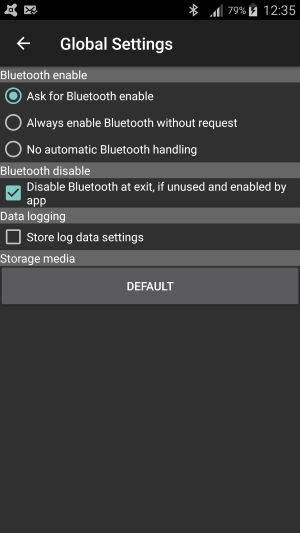
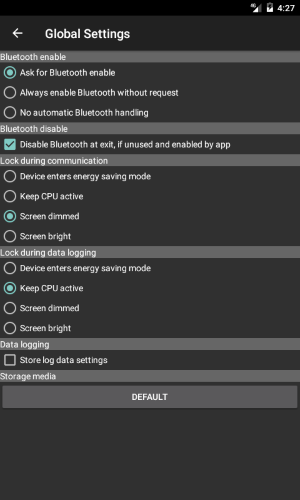
Updated documentation

diff --git a/BmwDeepObd/EdiabasToolActivity.cs b/BmwDeepObd/EdiabasToolActivity.cs
@@ -1545,6 +1545,7 @@ namespace BmwDeepObd
             }
             string jobResults = stringBuilderResults.ToString();
             _runContinuous = continuous;
+            // ReSharper disable once ConvertIfStatementToConditionalTernaryExpression
             if (_dataLogActive)
             {
                 _activityCommon.SetLock(ActivityCommon.LockTypeLogging);

diff --git a/docs/Page_specification.md b/docs/Page_specification.md
@@ -19,7 +19,7 @@ If only some EDIABAS jobs with fixed arguments are required for one display page
 <fragment xmlns="http://www.holeschak.de/BmwDeepObd"
           xmlns:xsi="http://www.w3.org/2001/XMLSchema-instance"
           xsi:schemaLocation="http://www.holeschak.de/BmwDeepObd ../BmwDeepObd.xsd">
-  <page name="tab_ihk">
+  <page name="tab_ihk" fontsize="medium">
     <strings>
       <string name="tab_ihk">Climate</string>
       <string name="label_ihk_in_temp">Indoor temperature [°C](°C):</string>
@@ -90,7 +90,9 @@ If only some EDIABAS jobs with fixed arguments are required for one display page
   </page>
 </fragment>
 ```
-The `page name` property specifies the title of the page and is a reference to the `strings` nodes. With `logfile` a log file name could be specified, that allows to log the display data. If the symbol `{D}` is used inside the log file name, it will be replaced by the current date and time.  
+The `page name` property specifies the title of the page and is a reference to the `strings` nodes.  
+The attribute `fontsize` allows to specify the font size of the display data in three steps (`small`, `medium` and `large`).  
+With `logfile` a log file name could be specified, that allows to log the display data. If the symbol `{D}` is used inside the log file name, it will be replaced by the current date and time.  
 The `strings` nodes contains the all the string used on this display page. If the current language is not matching the `lang` tag, the default language (without tag) is used. The `lang` property could be either the short form e.g. `'de'` or the long one `'de-DE'`.
 
 The `jobs` node groups all EDIABAS jobs to execute. The property _sgbd_ specifies the name of the group (`.grp`) or the sgbd (`.prg`) file to use. In VAG mode the property `mwtab` could be used to store the file name of the associated mwtab file.  
@@ -114,7 +116,7 @@ The page also allows to selectively reset ECU errors.
 <fragment xmlns="http://www.holeschak.de/BmwDeepObd"
           xmlns:xsi="http://www.w3.org/2001/XMLSchema-instance"
           xsi:schemaLocation="http://www.holeschak.de/BmwDeepObd ../BmwDeepObd.xsd">
-  <page name ="tab_errors">
+  <page name="tab_errors" fontsize="small">
     <strings>
       <string name="tab_errors">Errors</string>
 

diff --git a/docs/GlobalSettings.md b/docs/GlobalSettings.md
@@ -1,15 +1,20 @@
 # Global settings
 This page allows to change some global app settings.  
-* Bluetooth enable options:
+* _Bluetooth enable_ options:
   * _Ask for Bluetooth enable_: Ask every time if Bluetooth should be enabled.
   * _Always enable Bluetooth without request_: Always enable Bluetooth, never ask.
   * _No automatic Bluetooth handling_: Bluetooth must be enabled manually.
-* Bluetooth disable options:
+* _Bluetooth disable_ options:
   * _Disable Bluetooth at exit, if unused and enabled by app_: At app exit disable Bluetooth if the app has enabled it.  
   If the Bluetooth connection is in use for other services it will not be disabled.
-* Data logging options:
-  * _Store log data settings_: Store log data settings (not trace seetings) from the main menu and restore them an app restart.
-* Storage media options:
+* _Lock during communication_ and _Lock during data logging_ options:
+  * _Device enters energy saving mode_: No lock is active, the device enters energy saving mode as usual.
+  * _Keep CPU active_: The CPU keeps running but the display will be switched off.
+  * _Screen dimmed_: The CPU keeps running but the display will be dimmed.
+  * _Screen bright_: The CPU keeps running and the display will stay bright.
+* _Data logging_ options:
+  * _Store log data settings_: Store log data settings (not trace seetings) from the main menu and restore them at app restart.
+* _Storage media_ options:
   * _Default or storage location_: If the default storage media for the ECU files is not appropriate, a different media could be selected here.  
   The application storage directory on the media will be always fixed to _de.holeschak.bmw_deep_obd_.
 
